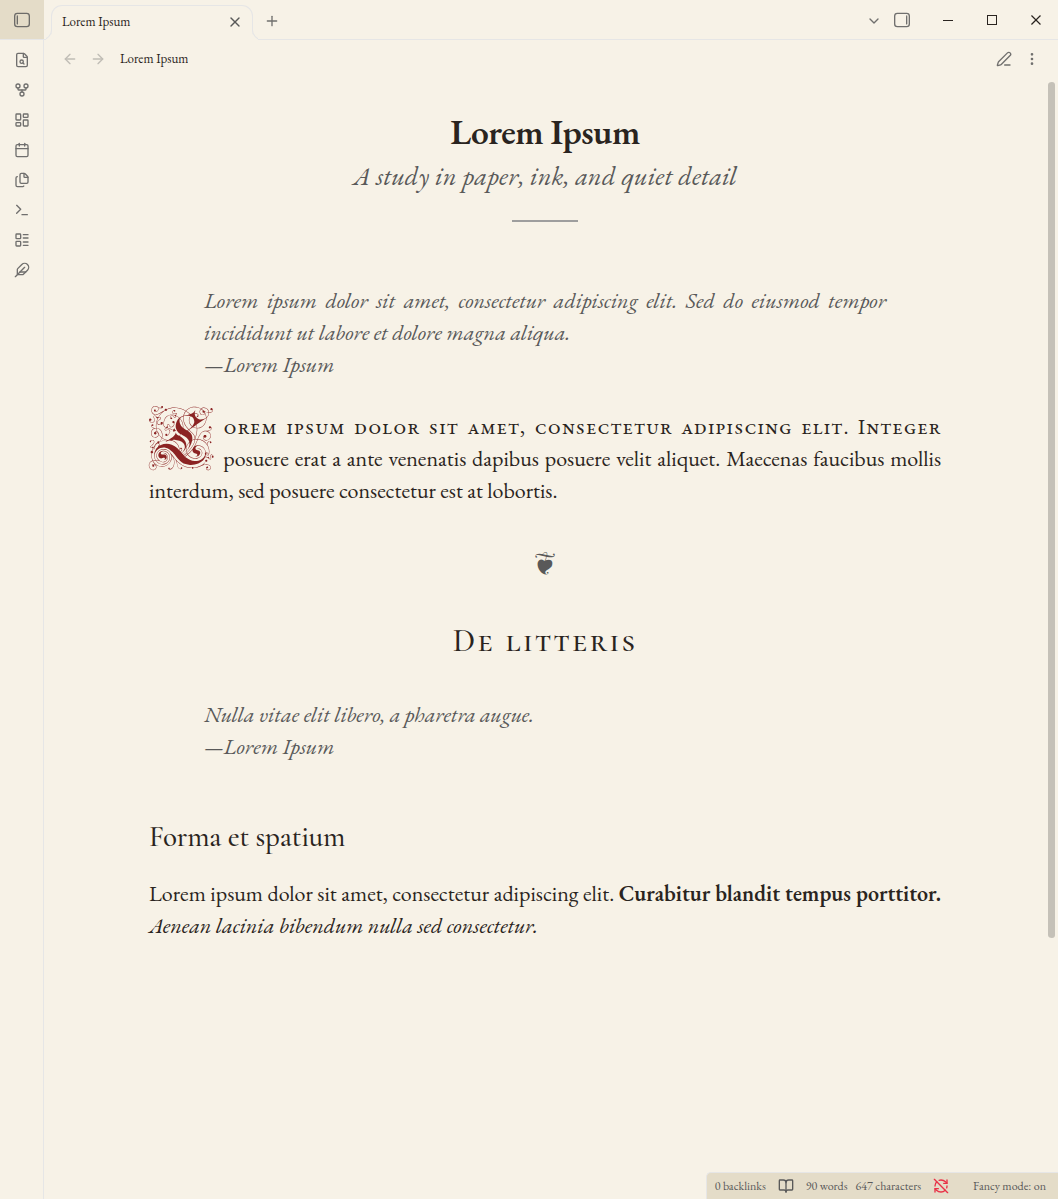
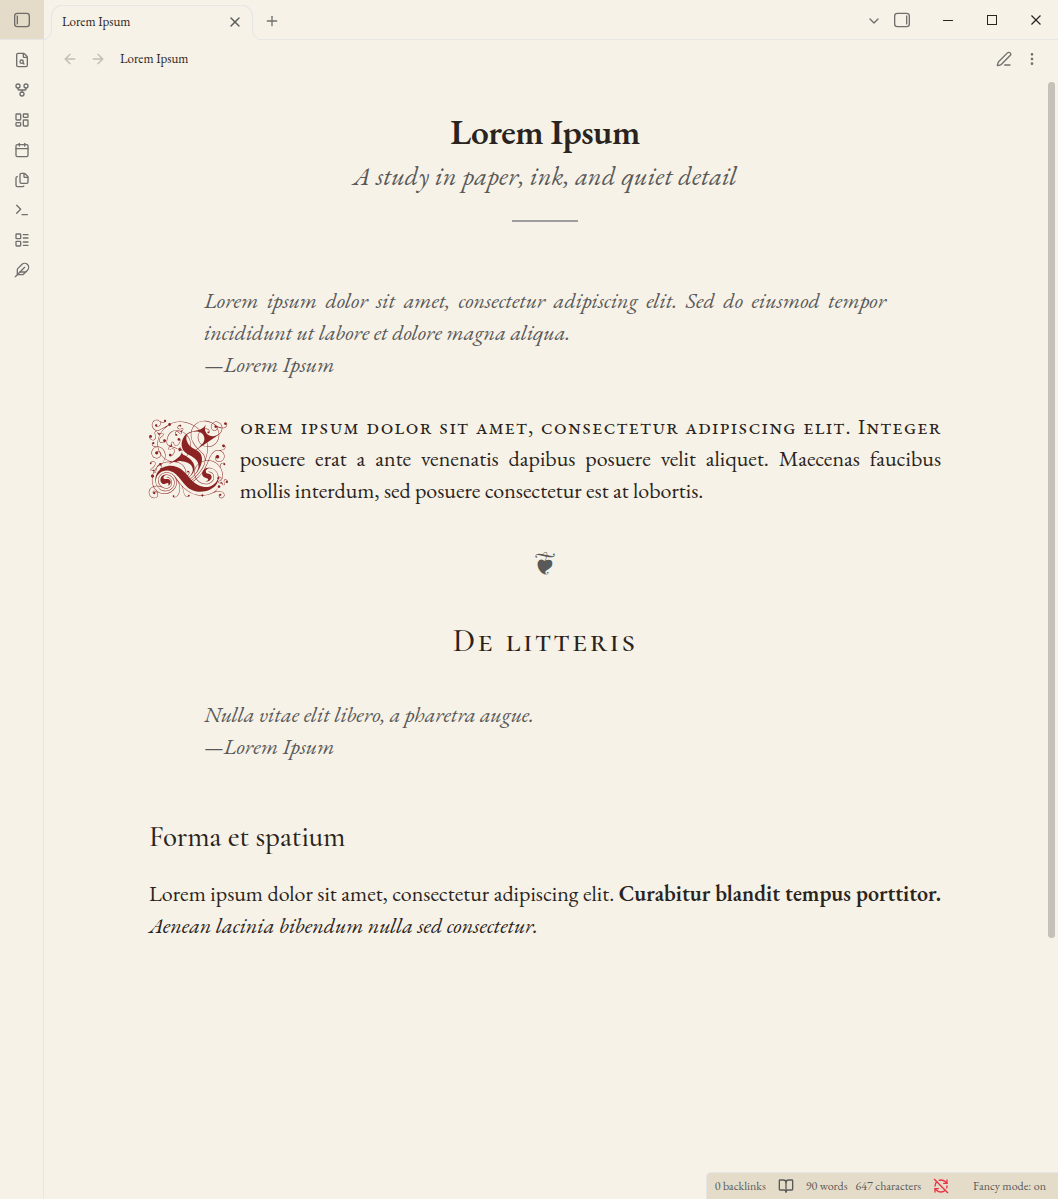
Drop caps: classic three-line drop, top on the first line's cap height (site + Scriptorium)
The user changed their mind about the two-line wrap: the standard is for the initial's top to align with the
top of the first line, even if the third line has to be indented again. The Yinit initial is now 3.667em,
lowered 0.18em: its top sits on the first line's cap height and its foot on the third line's baseline (both
within 0.5 px on the site; exact in Obsidian), and the fourth line returns to the margin. Package rebuilt,
installers re-pinned, light-mode Obsidian screenshots retaken.

Claude-Session: https://claude.ai/code/session_01CWVWPAKXQQg88PK2he7g2B

Changed region(s): [[0.1248, 0.3394, 0.8733, 0.432]]

diff --git a/assets/scriptorium-plugin/manuscript.css b/assets/scriptorium-plugin/manuscript.css
@@ -235,10 +235,10 @@ body:where(:not(.scriptorium-fancy)).theme-dark {
 .markdown-rendered :is(.mod-header, .el-h1, .el-h2, .el-h6) + .el-blockquote + .el-p > p::first-letter {
   float: left;
   font-family: "Scriptorium Yinit", var(--manuscript-display);
-  font-size: 3em;             /* a square initial two lines deep; the third line runs under it */
+  font-size: 3.667em;         /* a three-line drop: top at the first line's cap height, foot on the third baseline */
   line-height: 1;
   text-transform: uppercase;  /* Yinit has capitals only */
-  margin: 0 0.15em -0.15em 0; /* the negative bottom margin ends the wrap after the second line */
+  margin: 0.18em 0.15em -0.1em 0;  /* lowers the initial to the cap line; the fourth line returns to the margin */
   padding: 0;
   color: var(--manuscript-accent);
 }
@@ -489,10 +489,10 @@ body:where(.scriptorium-fancy).theme-dark {
 .markdown-rendered :is(.mod-header, .el-h1, .el-h2, .el-h6) + .el-blockquote + .el-p > p::first-letter {
   float: left;
   font-family: "Scriptorium Yinit", var(--manuscript-display);
-  font-size: 3em;             /* a square initial two lines deep; the third line runs under it */
+  font-size: 3.667em;         /* a three-line drop: top at the first line's cap height, foot on the third baseline */
   line-height: 1;
   text-transform: uppercase;  /* Yinit has capitals only */
-  margin: 0 0.15em -0.15em 0; /* the negative bottom margin ends the wrap after the second line */
+  margin: 0.18em 0.15em -0.1em 0;  /* lowers the initial to the cap line; the fourth line returns to the margin */
   padding: 0;
   color: var(--manuscript-accent);
 }

diff --git a/assets/scriptorium-site.css b/assets/scriptorium-site.css
@@ -178,10 +178,10 @@ h1, h2, h3, h4, h5, h6 { color: var(--ink); font-family: var(--text); font-weigh
 .post :is(h1, h2):not(.post-title) + blockquote + p::first-letter {
   float: left;
   font-family: var(--initials, var(--display));
-  font-size: 3em;             /* a 64 px square at 22 px text: two lines deep, the third line runs under it */
+  font-size: 3.667em;         /* a three-line drop: top at the first line's cap height, foot on the third baseline */
   line-height: 1;
   text-transform: uppercase;  /* Yinit has capitals only */
-  margin: 0 0.15em -0.15em 0; /* the negative bottom margin ends the wrap after the second line */
+  margin: 0.18em 0.15em -0.1em 0;  /* lowers the initial to the cap line; the fourth line returns to the margin */
   padding: 0;
   color: var(--accent);
 }
